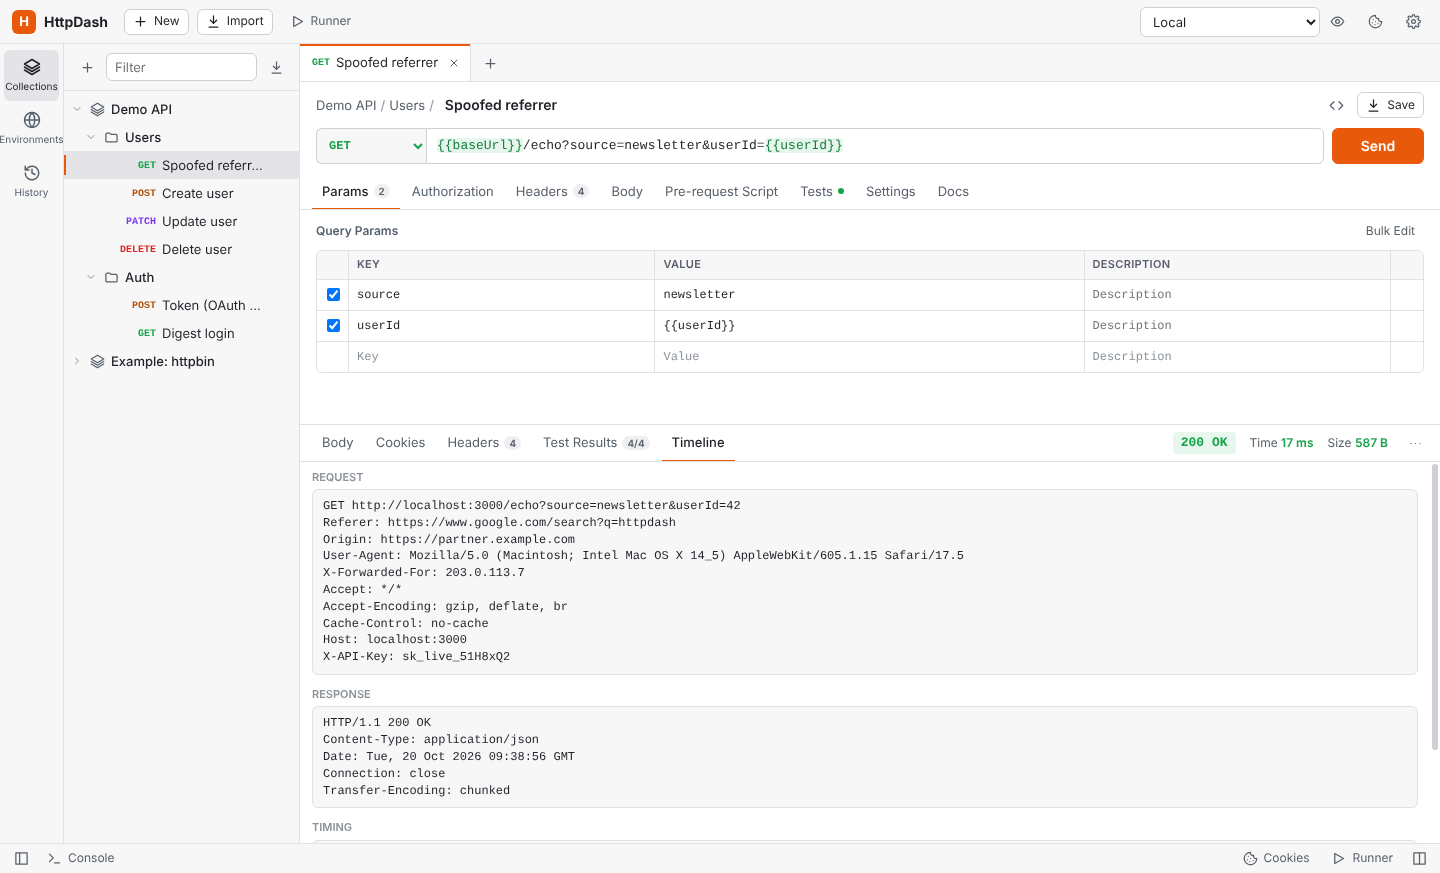
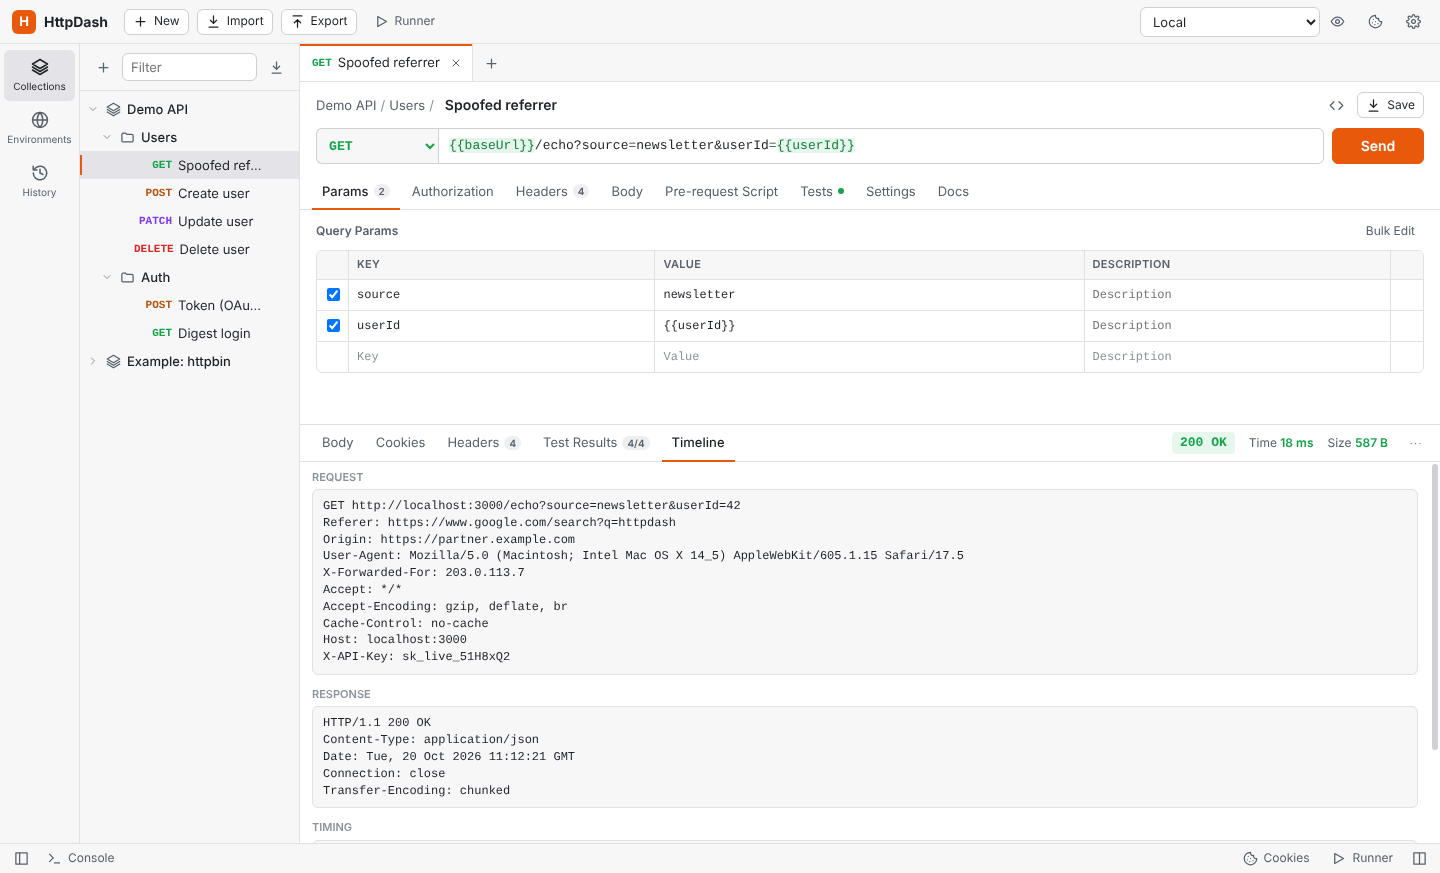
Keep every control reachable in narrow windows
- Request, response and settings tab rows wrap instead of hiding tabs
  off-screen behind an invisible scrollbar
- Below 1100px the top bar buttons become icon-only (names stay as
  tooltips) and side panels narrow; below 900px the sidebar is capped at a
  third of the window and the script snippet panel is hidden
- Minimum window width lowered from 960px to 720px
- Refresh README screenshots

Claude-Session: https://claude.ai/code/session_01SKQs4vwaM4U4JnVBqDMAnB

diff --git a/src/renderer/css/app.css b/src/renderer/css/app.css
@@ -627,3 +627,27 @@ li.CodeMirror-hint-active .hint-scope { color: #fff; }
 .export-counts b { color: var(--text); }
 .export-warning { font-size: 12px; color: var(--warn); background: var(--warn-soft); padding: 6px 10px; border-radius: 4px; }
 .restore-modes { display: flex; flex-direction: column; gap: 6px; margin-top: 8px; }
+
+/* Narrow windows: wrap tab rows instead of hiding tabs, and compact the chrome. */
+.subtabs:not(.segmented) { flex-wrap: wrap; overflow: visible; }
+.res-header .subtabs { flex-wrap: wrap; }
+#topbar { min-width: 0; }
+#topbar > .btn { flex: none; }
+@media (max-width: 1100px) {
+  #topbar > .btn > span { display: none; }
+  #topbar > .btn { padding: 0; width: 30px; }
+  .env-dropdown { min-width: 140px; max-width: 200px; }
+  .script-snippets { width: 190px; }
+  .auth-type { width: 210px; }
+}
+@media (max-width: 900px) {
+  #sidebar-wrap { max-width: 34vw; }
+  .brand > span:last-child { display: none; }
+  .subtab { padding: 7px 8px; }
+  .runner-config { width: 290px; }
+  .script-snippets { display: none; }
+  .res-meta { gap: 8px; }
+  .req-header, .url-bar { padding-left: 12px; padding-right: 12px; }
+  .send-btn { min-width: 76px; }
+  .method-select { width: 104px; }
+}

diff --git a/src/main/main.js b/src/main/main.js
@@ -31,7 +31,7 @@ function createWindow() {
   win = new BrowserWindow({
     width: 1440,
     height: 900,
-    minWidth: 960,
+    minWidth: 720,
     minHeight: 600,
     title: 'HttpDash',
     backgroundColor: nativeTheme.shouldUseDarkColors ? '#1e1f22' : '#ffffff',
